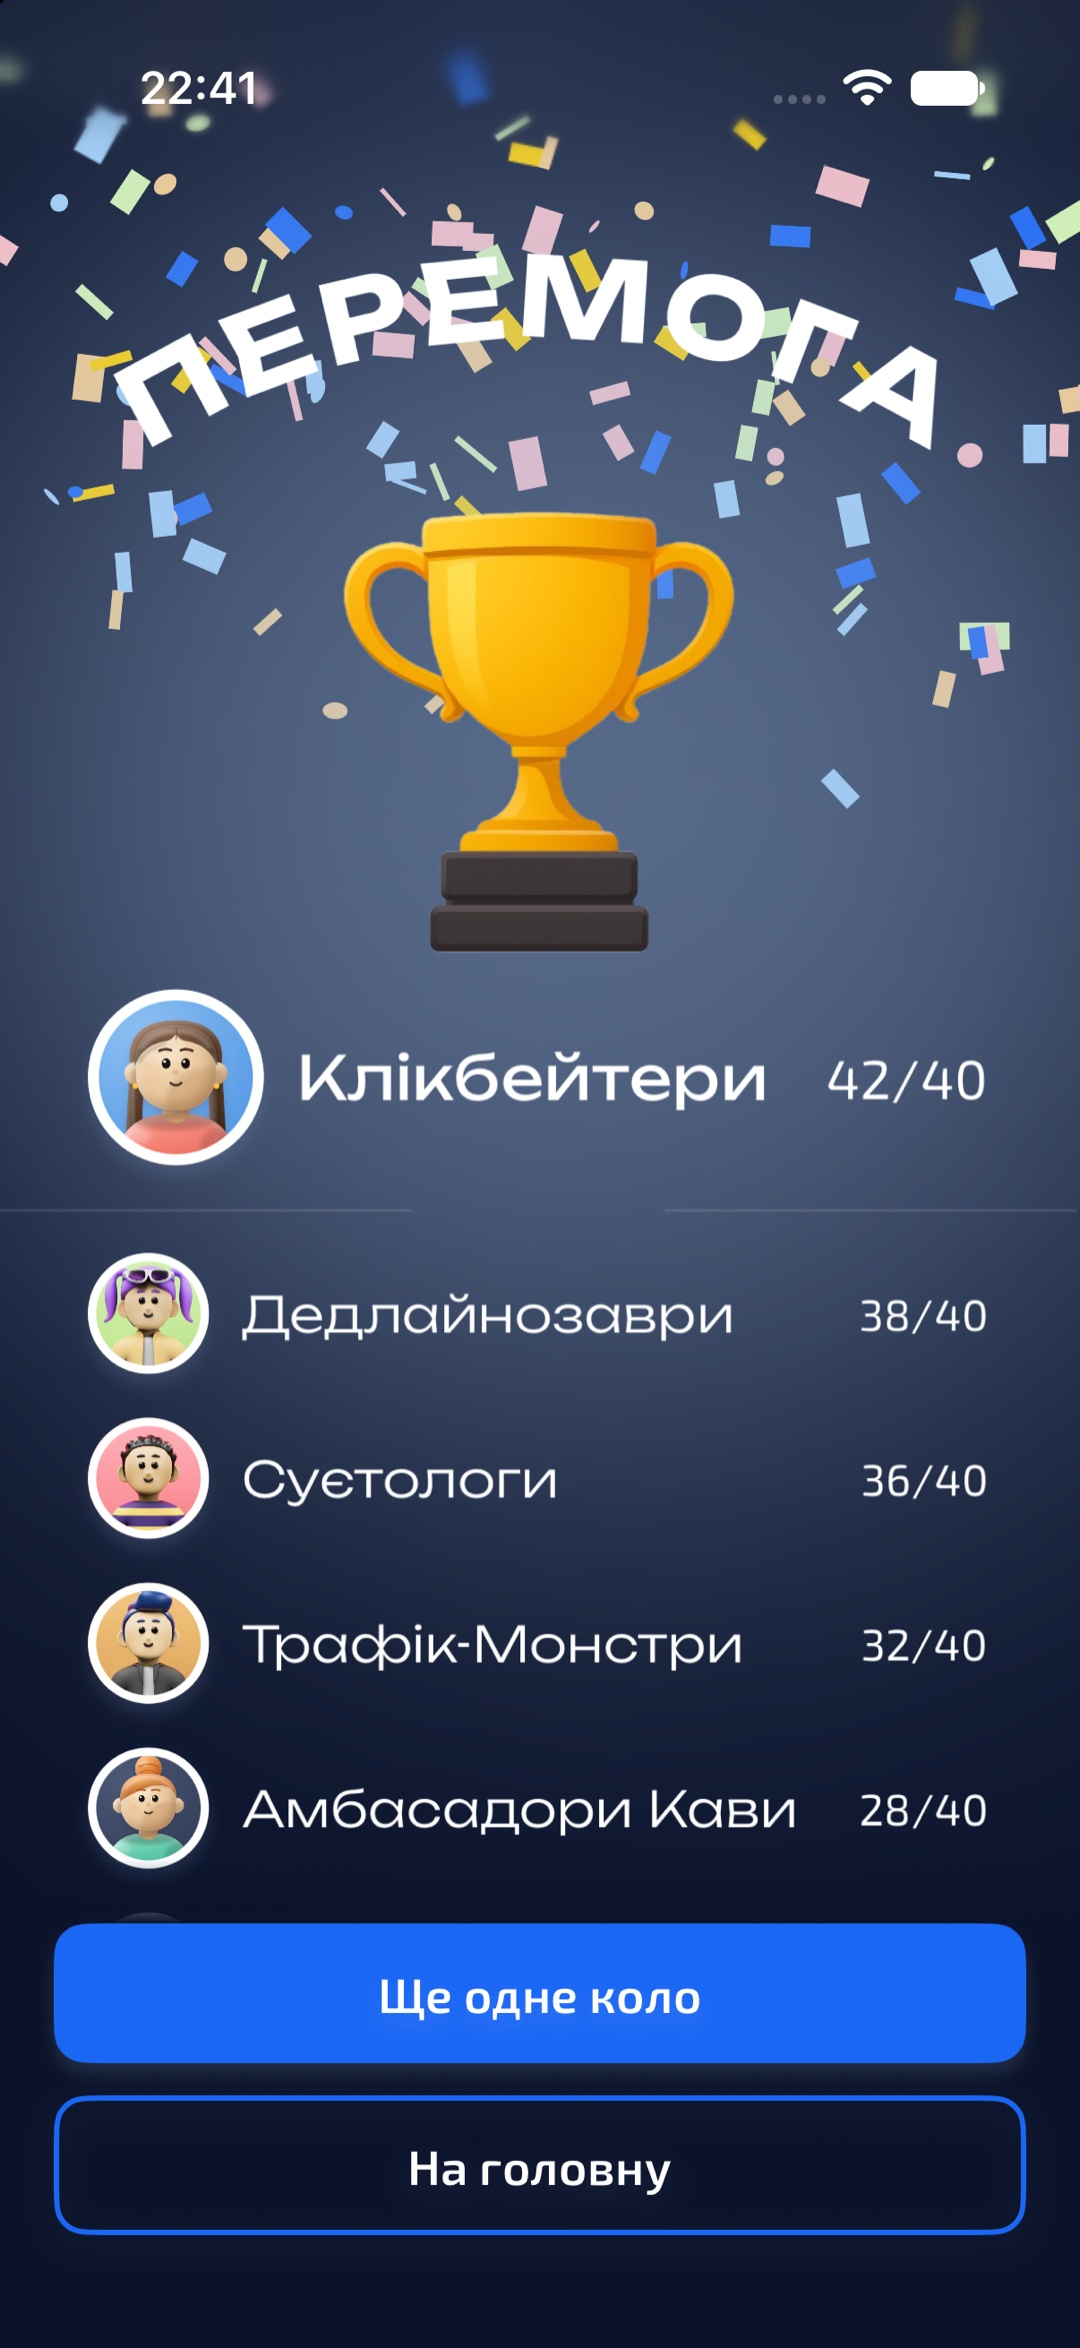
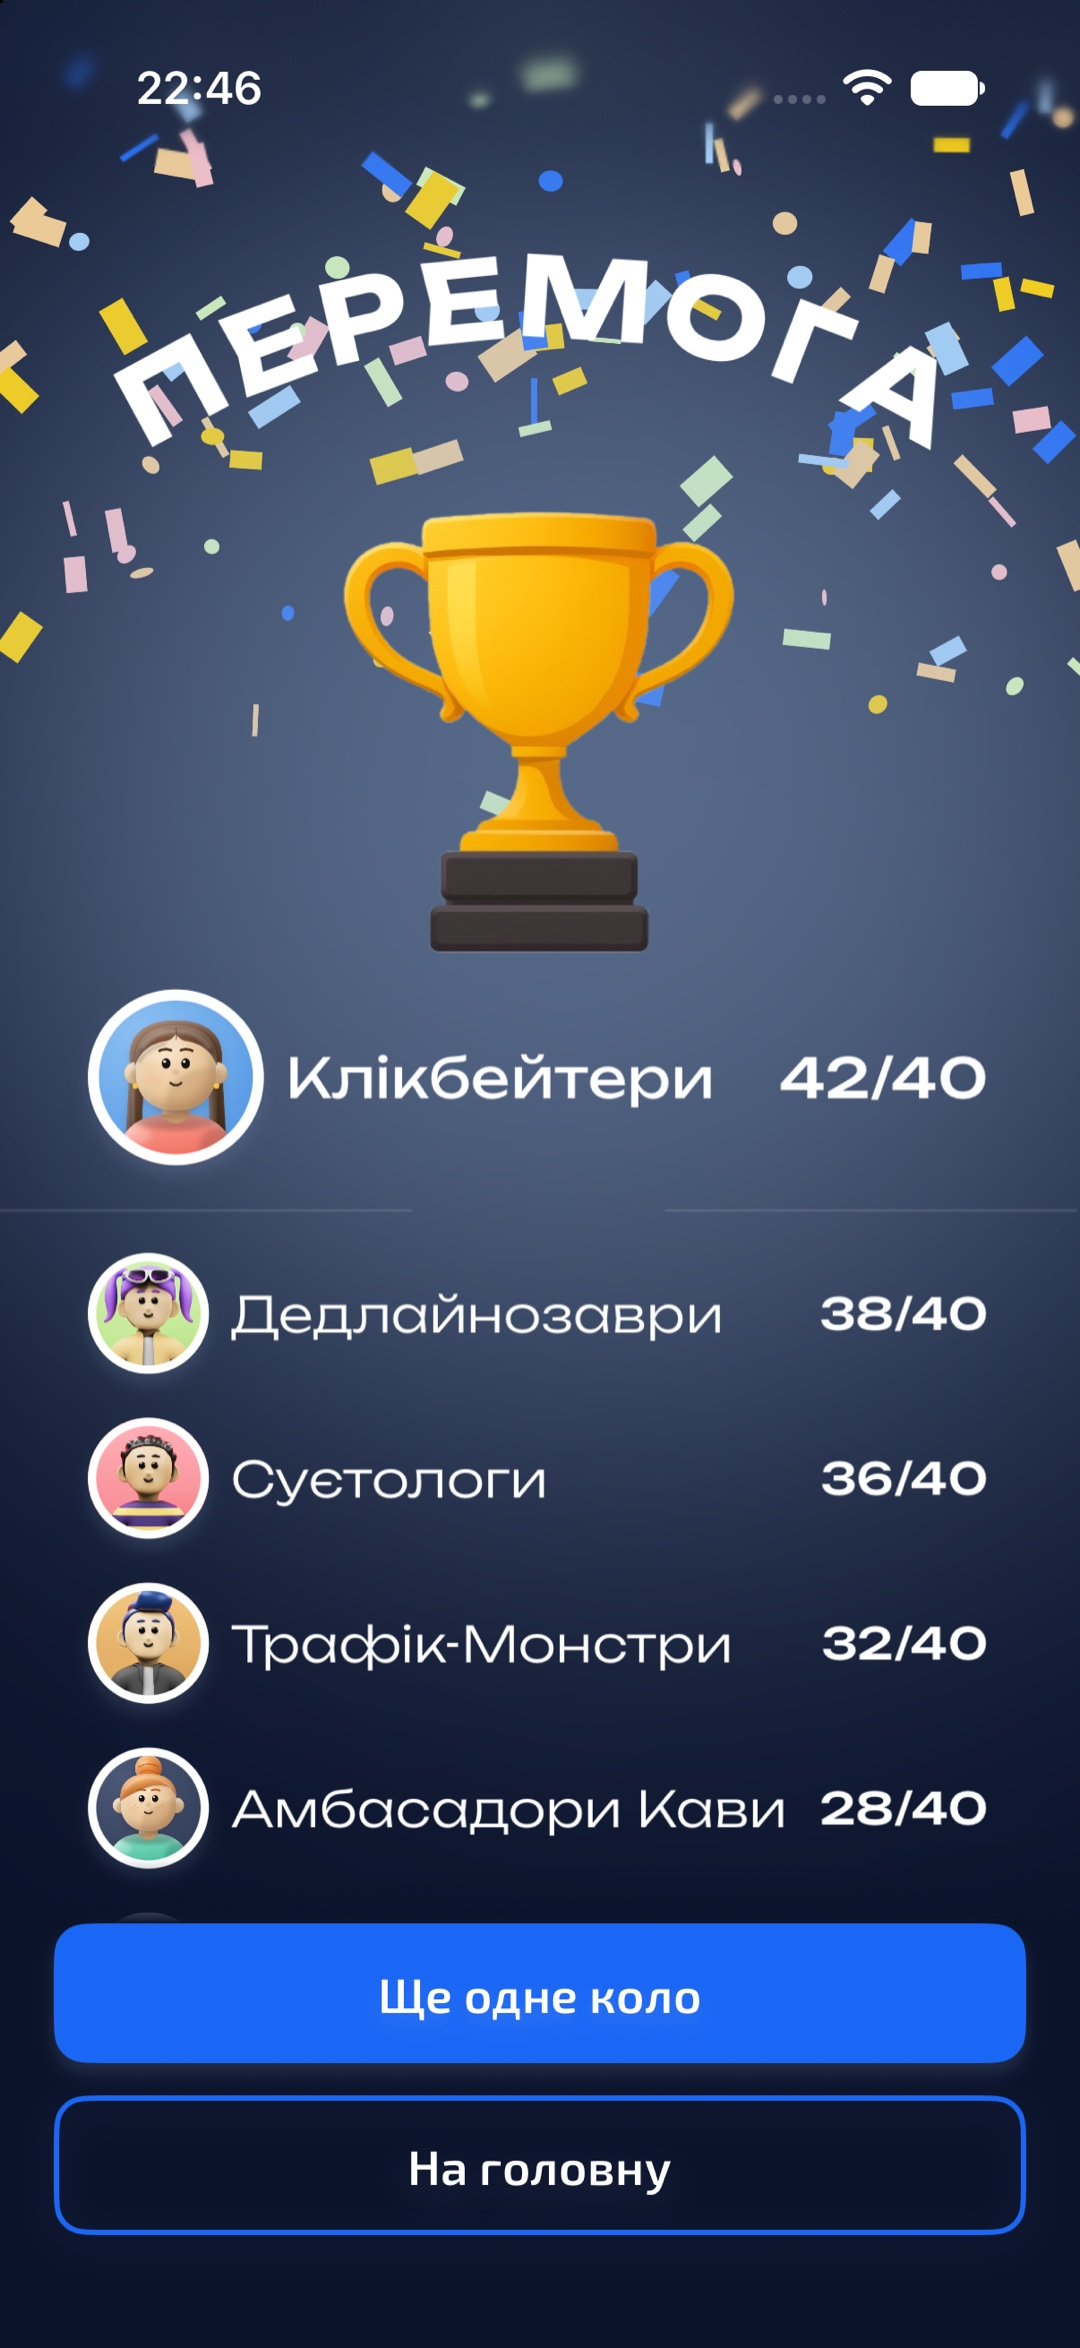
Перемога: рахунок жирніший (Unbounded Medium), назва переможця 20
Claude-Session: https://claude.ai/code/session_01SnGbK59qBap6rGwT8CguWL

diff --git a/index.html b/index.html
@@ -180,7 +180,7 @@ function render(){
   board+=`<div class="secgrp"><div class="sechead" id="${sec.id}"><h2>${sec.title}</h2><span>${cnt} ${plural(cnt)}</span></div>`;
   flows.forEach(x=>{
    board+=`<section class="flow" id="${x.f.id}"><div class="flowcap"><h3>${x.f.title}</h3><span>${x.items.length} ${plural(x.items.length)}</span><button data-cflow="${x.f.id}">Коментувати флоу</button></div><div class="rowwrap"><button class="arrow l" aria-label="Назад">←</button><div class="row">`+
-    x.items.map(s=>`<figure class="shot" data-route="${s.route}"><div class="im"><img src="shots/${s.route}.jpg?v=2609222241" alt="${s.label}" loading="lazy" draggable="false"><i class="pinc"></i></div><figcaption class="cap"><b>${s.label}</b><span>${s.note}</span></figcaption></figure>`).join('')+
+    x.items.map(s=>`<figure class="shot" data-route="${s.route}"><div class="im"><img src="shots/${s.route}.jpg?v=2609222247" alt="${s.label}" loading="lazy" draggable="false"><i class="pinc"></i></div><figcaption class="cap"><b>${s.label}</b><span>${s.note}</span></figcaption></figure>`).join('')+
     `</div><button class="arrow r" aria-label="Далі">→</button></div></section>`;
   });
   board+=`</div>`;
@@ -238,9 +238,9 @@ function vFit(){const W=vs.clientWidth,H=vs.clientHeight;V.fitz=Math.min(W/IW,(H
 function v100(){const W=vs.clientWidth,H=vs.clientHeight;const cx=W/2,cy=H/2;vZoomAt(1/V.z*.5,cx,cy)}
 function vZoomAt(f,cx,cy){const nz=Math.min(3,Math.max(V.fitz*.5,V.z*f));const k=nz/V.z;V.x=cx-(cx-V.x)*k;V.y=cy-(cy-V.y)*k;V.z=nz;vApply()}
 function openViewer(route){const k=all.findIndex(a=>a.route===route);if(k<0)return;V.i=k;$('#viewer').classList.add('on');document.body.style.overflow='hidden';showV();}
-function showV(){const s=all[V.i];vi.src='shots/'+s.route+'.jpg?v=2609222241';
+function showV(){const s=all[V.i];vi.src='shots/'+s.route+'.jpg?v=2609222247';
  $('#vt').innerHTML=`<b>${s.label}</b><span>${s.flow.title} · ${s.note}</span><code>${s.route}</code>`;
- const fl=all.filter(a=>a.flow===s.flow);$('#strip').innerHTML=fl.map(a=>`<button data-r="${a.route}" class="${a===s?'on':''}" title="${a.label}"><img src="shots/${a.route}.jpg?v=2609222241" loading="lazy" alt=""></button>`).join('');
+ const fl=all.filter(a=>a.flow===s.flow);$('#strip').innerHTML=fl.map(a=>`<button data-r="${a.route}" class="${a===s?'on':''}" title="${a.label}"><img src="shots/${a.route}.jpg?v=2609222247" loading="lazy" alt=""></button>`).join('');
  $('#strip').querySelectorAll('button').forEach(b=>b.onclick=()=>openViewer(b.dataset.r));
  $('#strip .on')?.scrollIntoView({inline:'center',block:'nearest'});
  vimg.querySelectorAll('.pin,.pop').forEach(n=>n.remove());
